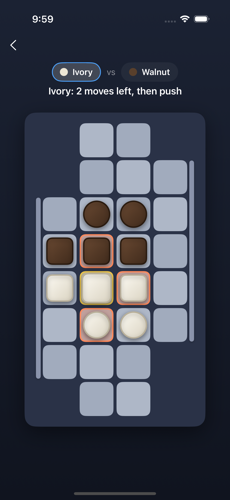
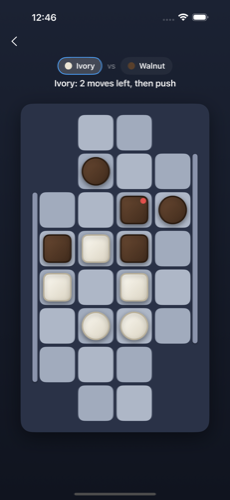
Fix Match History replay bounce-back; refresh screenshots
History rows used value-based NavigationLinks in a stack that navigates
view-based everywhere else, so ReplayView popped immediately back to
the list. Now a plain view-destination link, with a UI regression test
that plays a full game and verifies the replay screen stays open.

diff --git a/UITests/PushFightUITests.swift b/UITests/PushFightUITests.swift
@@ -44,6 +44,68 @@ final class PushFightUITests: XCTestCase {
         saveScreenshot("game-after-push")
     }
 
+    /// Marketing screenshots: the home page and a lively mid-game position
+    /// with both anchors having moved and no selection highlights.
+    func testMarketingScreenshots() throws {
+        let app = XCUIApplication()
+        app.launch()
+
+        let passAndPlay = app.buttons["Pass & Play"].firstMatch
+        XCTAssertTrue(passAndPlay.waitForExistence(timeout: 5))
+        Thread.sleep(forTimeInterval: 1.5)
+        saveScreenshot("shot-home")
+
+        passAndPlay.tap()
+        let status = app.staticTexts["game-status"]
+        XCTAssertTrue(status.waitForExistence(timeout: 5))
+
+        for tile in ["d2", "d3", "d1", "c2", "c3", "e2", "e3", "e1", "f2", "f3"] {
+            tapTile(app, tile)
+        }
+        // Ivory shoves the centre line; Walnut answers with a flank push.
+        tapTile(app, "d2")
+        tapTile(app, "e2")
+        tapTile(app, "f2")
+        tapTile(app, "f3")
+        XCTAssertTrue(status.label.contains("Ivory"), "Should be Ivory's turn, got: \(status.label)")
+        Thread.sleep(forTimeInterval: 1.0)
+        saveScreenshot("shot-game")
+    }
+
+    /// Regression: finished games must open from Match History instead of
+    /// bouncing straight back to the list.
+    func testHistoryReplayOpens() throws {
+        let app = XCUIApplication()
+        app.launch()
+
+        app.buttons["Pass & Play"].firstMatch.tap()
+        let status = app.staticTexts["game-status"]
+        XCTAssertTrue(status.waitForExistence(timeout: 5))
+
+        // Fast win: Ivory pushes its own round off the open left edge.
+        for tile in ["b2", "c1", "d1", "a2", "a3", "e2", "f2", "g2", "f3", "g3"] {
+            tapTile(app, tile)
+        }
+        tapTile(app, "b2")
+        tapTile(app, "a2")
+        XCTAssertTrue(status.label.contains("wins"), "Game should be over, got: \(status.label)")
+
+        app.buttons["Done"].firstMatch.tap()
+        XCTAssertTrue(app.buttons["Match History"].firstMatch.waitForExistence(timeout: 5))
+        app.buttons["Match History"].firstMatch.tap()
+
+        let row = app.staticTexts["Walnut won"].firstMatch
+        XCTAssertTrue(row.waitForExistence(timeout: 5), "History row should exist")
+        row.tap()
+
+        // The replay screen has the scrubber; it must still be there after
+        // the push animation settles (no bounce-back).
+        let slider = app.sliders.firstMatch
+        XCTAssertTrue(slider.waitForExistence(timeout: 5), "Replay scrubber should appear")
+        Thread.sleep(forTimeInterval: 1.5)
+        XCTAssertTrue(slider.exists, "Replay screen must not pop back to the list")
+    }
+
     /// Writes a screenshot to the host filesystem (simulator only) so design
     /// can be reviewed without driving the app manually.
     private func saveScreenshot(_ name: String) {

diff --git a/App/Views/HistoryView.swift b/App/Views/HistoryView.swift
@@ -17,7 +17,12 @@ struct HistoryView: View {
             } else {
                 List {
                     ForEach(history.matches) { match in
-                        NavigationLink(value: match) {
+                        // View-destination link: the rest of the app navigates
+                        // view-based, and mixing in value-based links makes
+                        // the pushed screen pop straight back.
+                        NavigationLink {
+                            ReplayView(match: match)
+                        } label: {
                             HistoryRow(match: match)
                         }
                         .listRowBackground(Color.white.opacity(0.06))
@@ -28,15 +33,7 @@ struct HistoryView: View {
             }
         }
         .navigationTitle("Match History")
-        .navigationDestination(for: MatchRecord.self) { match in
-            ReplayView(match: match)
-        }
     }
-}
-
-extension MatchRecord: Hashable {
-    static func == (lhs: MatchRecord, rhs: MatchRecord) -> Bool { lhs.id == rhs.id }
-    func hash(into hasher: inout Hasher) { hasher.combine(id) }
 }
 
 private struct HistoryRow: View {